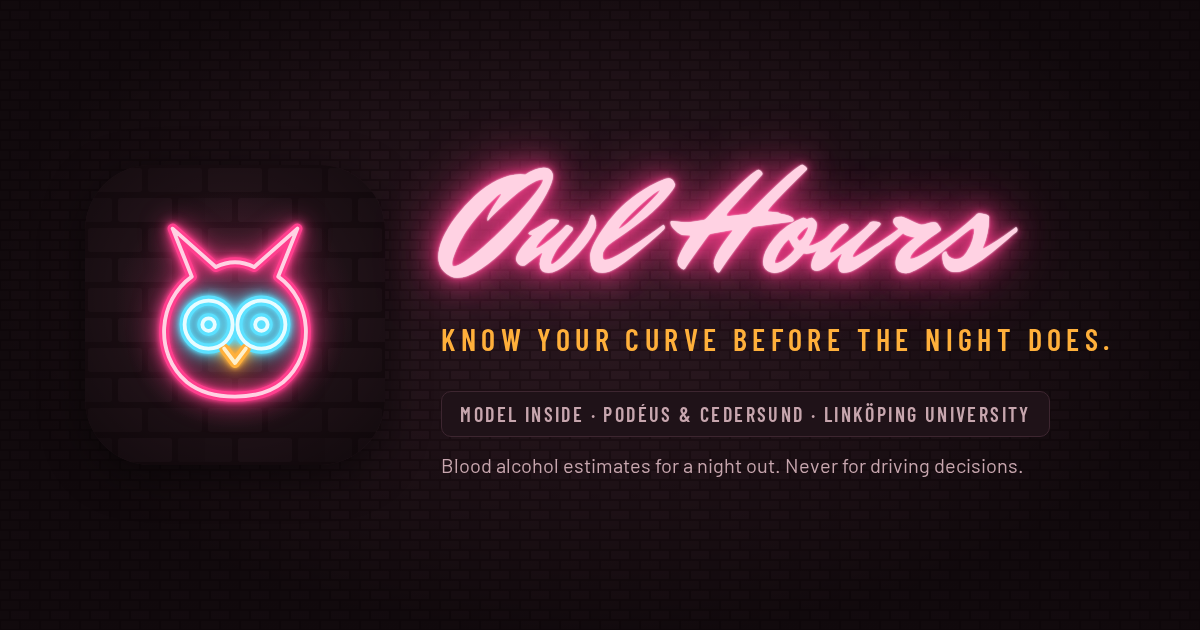
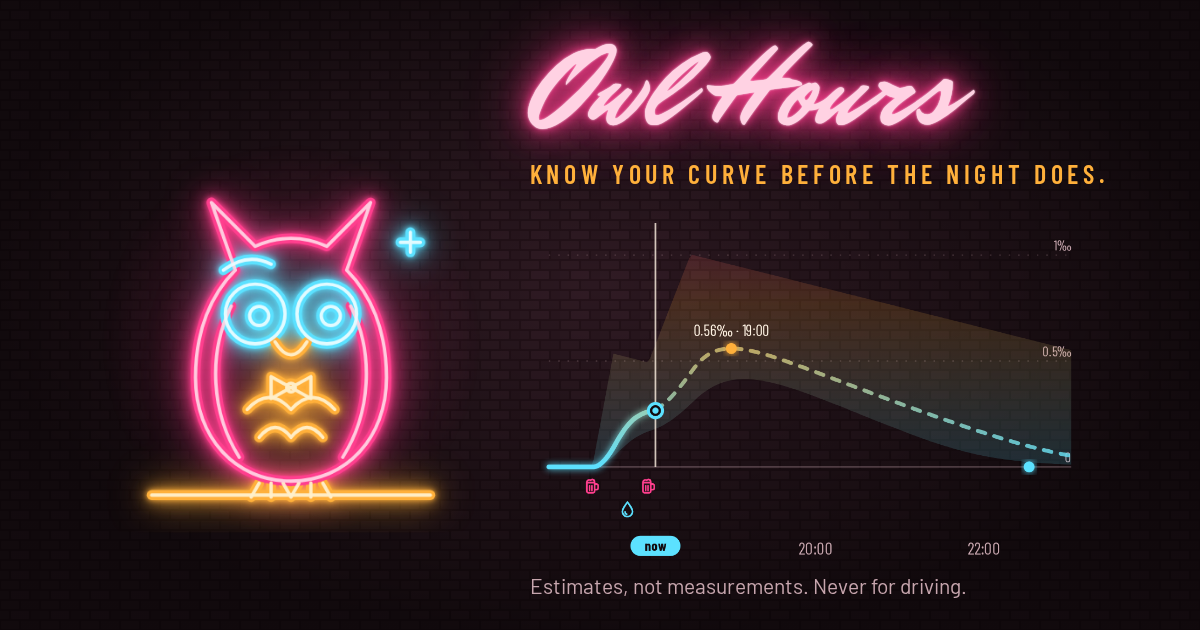
Social preview shows the product: Watt and a real curve, one plain safety line, no credits pill
Claude-Session: https://claude.ai/code/session_01Xq8hR1kS1FB6gpCScA9gUm

diff --git a/web/brand/poster.html b/web/brand/poster.html
@@ -13,13 +13,13 @@
   }
   .neon { font-family: "Mr Dafoe", cursive; color: #ffd2e3; text-shadow: 0 0 2px #fff, 0 0 10px #ff3f8e, 0 0 28px #ff3f8e, 0 0 60px #ff3f8e; line-height: 1; }
   .tag { font-family: "Barlow Condensed", sans-serif; font-weight: 600; letter-spacing: 0.18em; text-transform: uppercase; color: #ffb03b; }
-  .plate { font-family: "Barlow Condensed", sans-serif; font-weight: 600; letter-spacing: 0.12em; text-transform: uppercase; color: #c7a6ae; border: 1px solid #3d2630; background: #1f1218; border-radius: 10px; }
   .icon { border-radius: 22%; box-shadow: 0 10px 40px rgba(0, 0, 0, 0.5); display: block; }
-  .social { display: grid; grid-template-columns: auto 1fr; gap: 56px; align-items: center; padding: 0 80px; }
-  .social .neon { font-size: 150px; }
-  .social .tag { font-size: 30px; margin-top: 18px; }
-  .social .plate { display: inline-block; font-size: 20px; padding: 10px 18px; margin-top: 34px; }
-  .social .fine { font-size: 20px; color: #c7a6ae; margin-top: 16px; }
+  .social { display: grid; grid-template-columns: auto 1fr; gap: 40px; align-items: center; padding: 0 64px; }
+  .social .watt { height: 440px; display: block; }
+  .social .neon { font-size: 116px; }
+  .social .tag { font-size: 26px; margin-top: 10px; }
+  .social .curve { width: 560px; display: block; margin-top: 12px; }
+  .social .line { font-size: 21px; color: #c7a6ae; margin-top: 8px; }
   /* flat app background: brick at 3x pixel ratio would make each launch image about 1 MB */
   body.flat { background: #120a0e; }
   .splash { display: grid; justify-items: center; gap: 6vh; }
@@ -31,11 +31,12 @@
   const poster = document.getElementById("poster");
   if (kind === "social") {
     poster.className = "social";
+    // og-watt.png and og-curve.png are captured from the built app by scripts/render-assets.mjs
     poster.innerHTML =
-      '<img class="icon" src="../public/icon.svg" width="300" height="300" alt="" />' +
-      "<div><div class=\"neon\">Owl Hours</div><div class=\"tag\">Know your curve before the night does.</div>" +
-      '<div class="plate">Model inside · Podéus &amp; Cedersund · Linköping University</div>' +
-      '<div class="fine">Blood alcohol estimates for a night out. Never for driving decisions.</div></div>';
+      '<img class="watt" src="og-watt.png" alt="" />' +
+      '<div><div class="neon">Owl Hours</div><div class="tag">Know your curve before the night does.</div>' +
+      '<img class="curve" src="og-curve.png" alt="" />' +
+      '<div class="line">Estimates, not measurements. Never for driving.</div></div>';
   } else {
     poster.className = "splash";
     document.body.classList.add("flat");
